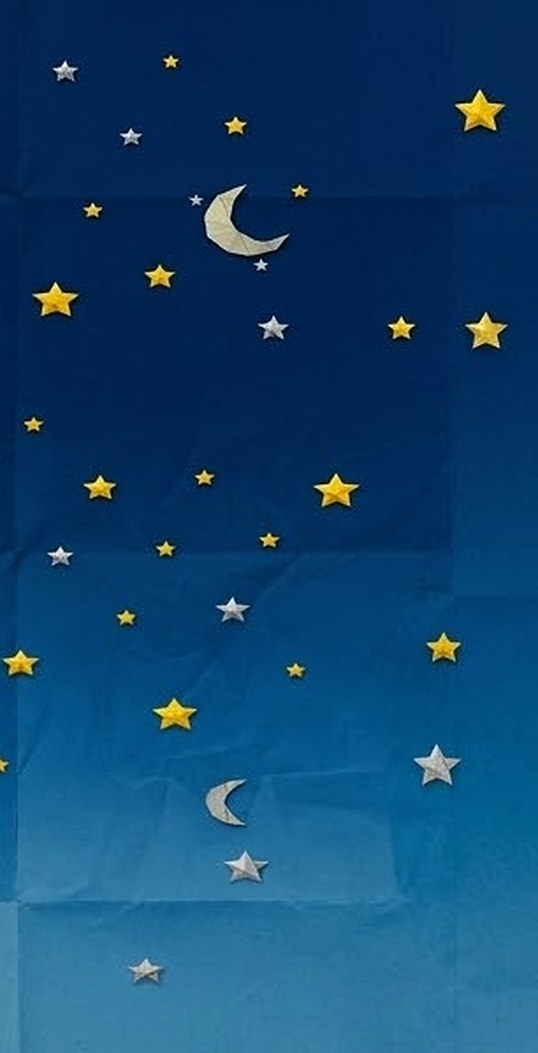
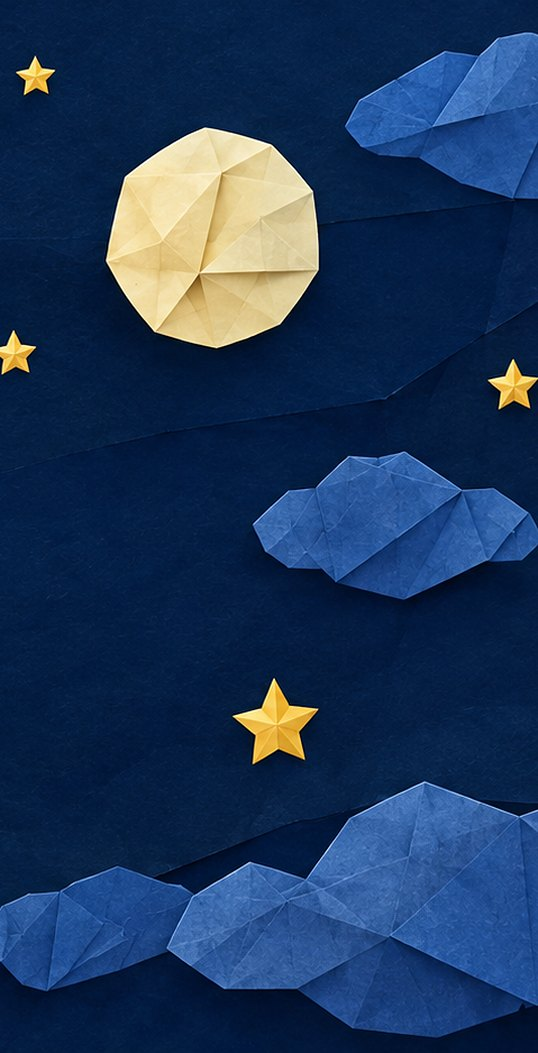
夜・星空・オーロラの空を、新しい折り紙の絵 3 枚にする
作り直してもらった絵 (夜=満月と雲 / 星空=三日月と星 / オーロラ=氷山と湖) を、空と同じ縦横比 (430:842) で切り出して 538x1053 にした (床は含めない)。
前に入れた夜の絵 (小さい絵を切っていた) は置き換える。
3 枚を下から順に重ね、濃さは palette().skyArt = [夜, 星空, オーロラ] (20→30 / 30→40 / 40→50 点で 0→1)。下の絵は 1 のまま残すので、重ねている間にグラデーションが透けない。canvas の星・月・オーロラは絵が濃いほど引っ込める。1 枚でも読めなければどれも出さない。
見張り: 3 枚の大きさ・夜と星空に金の星・オーロラだけ緑が多い・3 枚とも暗い・点数ごとの濃さ・読めないときは出さない (core 側にも濃さの単調さの試験)。

Claude-Session: https://claude.ai/code/session_01VNifuaMGz9kWVnVmfma8o2

diff --git a/browser-test.js b/browser-test.js
@@ -835,45 +835,55 @@ async function run() {
       await mp.close();
     }
 
-    // ------------------------------------------------ 夜の空の絵
-    section('夜の空の絵');
+    // ------------------------------------------------ 夜・星空・オーロラの空の絵
+    section('夜・星空・オーロラの空の絵');
     {
       const nc = await browser.newContext(PHONE);
       const np = await nc.newPage();
       await np.goto(URL);
       await np.waitForFunction(() => window.__app);
       await np.locator('#btnAdventure').tap();
-      const setScore = (sc) => np.evaluate((sc) => { const g = window.__app.game(); g.phase = 'play'; g.score = sc; g.pipes.length = 0; g.items.length = 0; window.__app.render(); return +getComputedStyle(document.getElementById('skyNight')).opacity; }, sc);
-      const art = await np.evaluate(async () => {
-        const im = document.getElementById('skyNight'); await im.decode();
-        const c = document.createElement('canvas'); c.width = im.naturalWidth; c.height = im.naturalHeight;
-        const g = c.getContext('2d'); g.drawImage(im, 0, 0);
-        const d = g.getImageData(0, 0, c.width, c.height).data;
-        let gold = 0, floor = 0;
-        for (let y = 0; y < c.height; y++) for (let x = 0; x < c.width; x++) {
-          const i = (y * c.width + x) * 4, r = d[i], gg = d[i + 1], b = d[i + 2];
-          if (r > 200 && gg > 150 && b < 110) gold++;
-          if (y > c.height - 30 && gg > b + 30) floor++;   // 床の緑が混ざっていないか (下の端)
+      const ops = (sc) => np.evaluate((sc) => { const g = window.__app.game(); g.phase = 'play'; g.score = sc; g.pipes.length = 0; g.items.length = 0; window.__app.render();
+        return ['skyNight', 'skyStarry', 'skyAurora'].map((id) => +getComputedStyle(document.getElementById(id)).opacity); }, sc);
+      const arts = await np.evaluate(async () => {
+        const out = {};
+        for (const id of ['skyNight', 'skyStarry', 'skyAurora']) {
+          const im = document.getElementById(id); await im.decode();
+          const c = document.createElement('canvas'); c.width = im.naturalWidth; c.height = im.naturalHeight;
+          const g = c.getContext('2d'); g.drawImage(im, 0, 0);
+          const d = g.getImageData(0, 0, c.width, c.height).data;
+          let gold = 0, green = 0, lum = 0;
+          for (let i = 0; i < d.length; i += 4) {
+            if (d[i] > 200 && d[i + 1] > 150 && d[i + 2] < 120) gold++;
+            if (d[i + 1] > 140 && d[i + 1] > d[i] + 40 && d[i + 1] > d[i + 2] - 20) green++;   // オーロラの緑
+            lum += (d[i] + d[i + 1] + d[i + 2]) / 3;
+          }
+          out[id] = { w: c.width, h: c.height, gold, green, lum: lum / (d.length / 4) };
         }
-        return { w: c.width, h: c.height, gold, floor };
+        return out;
       });
-      ok(art.w === 538 && art.h === 1053, `夜の絵は 538x1053 (${art.w}x${art.h})`);
-      ok(art.gold > 400, `夜の絵に金の星が写っている (${art.gold} 画素)`);
-      ok(art.floor === 0, `夜の絵の下の端に床の緑が混ざらない (${art.floor} 画素)`);
-      const o20 = await setScore(20), o25 = await setScore(25), o30 = await setScore(30), o35 = await setScore(35), o40 = await setScore(40);
-      ok(o20 === 0 && o40 === 0, `夜の絵は 20 点・40 点では出ない (${o20} / ${o40})`);
-      ok(o30 === 1 && o25 > 0.3 && o25 < 0.7 && o35 > 0.3 && o35 < 0.7, `夜 (30 点) でちょうど 1、前後の 25・35 点は途中 (${o25} / ${o30} / ${o35})`);
+      for (const id of ['skyNight', 'skyStarry', 'skyAurora']) ok(arts[id].w === 538 && arts[id].h === 1053, `${id} は 538x1053 (${arts[id].w}x${arts[id].h})`);
+      ok(arts.skyNight.gold > 300 && arts.skyStarry.gold > 300, `夜と星空の絵に金の星が写っている (${arts.skyNight.gold} / ${arts.skyStarry.gold} 画素)`);
+      ok(arts.skyAurora.green > 4000 && arts.skyNight.green < 100 && arts.skyStarry.green < 100, `オーロラの絵だけ緑が多い (${arts.skyAurora.green} / ${arts.skyNight.green} / ${arts.skyStarry.green} 画素)`);
+      ok(Object.values(arts).every((a) => a.lum < 110), `3 枚とも夜の暗さ (明るさ ${Object.values(arts).map((a) => a.lum.toFixed(0)).join(' / ')})`);
+      const o = {}; for (const sc of [0, 20, 25, 30, 35, 40, 45, 50, 70]) o[sc] = await ops(sc);
+      ok(o[0].every((v) => v === 0) && o[20].every((v) => v === 0), '20 点までは絵を出さない');
+      ok(o[30][0] === 1 && o[30][1] === 0 && o[30][2] === 0, `30 点は夜の絵だけ (${o[30]})`);
+      ok(o[40][0] === 1 && o[40][1] === 1 && o[40][2] === 0, `40 点は星空の絵まで (${o[40]})`);
+      ok(o[50].every((v) => v === 1) && o[70].every((v) => v === 1), `50 点からオーロラの絵まで全部 (${o[50]})`);
+      ok(o[25][0] > 0.3 && o[25][0] < 0.7 && o[35][1] > 0.3 && o[35][1] < 0.7 && o[45][2] > 0.3 && o[45][2] < 0.7, `前後の 5 点は途中 (${o[25][0]} / ${o[35][1]} / ${o[45][2]})`);
       await nc.close();
 
-      // 絵が読めなければ、夜も元のグラデーション + 星と月のまま (絵を出さない)
+      // 1 枚でも絵が読めなければ、元のグラデーション + 星と月 (canvas) のまま
       const bc = await browser.newContext(PHONE);
-      await bc.route('**/sky-night.jpg', (r) => r.abort());
+      await bc.route('**/sky-starry.jpg', (r) => r.abort());
       const bp = await bc.newPage();
       await bp.goto(URL);
       await bp.waitForFunction(() => window.__app);
       await bp.locator('#btnAdventure').tap();
-      const ob = await bp.evaluate(() => { const g = window.__app.game(); g.phase = 'play'; g.score = 30; g.pipes.length = 0; g.items.length = 0; window.__app.render(); return +getComputedStyle(document.getElementById('skyNight')).opacity; });
-      ok(ob === 0, `夜の絵が読めないときは出さない (${ob})`);
+      const ob = await bp.evaluate(() => { const g = window.__app.game(); g.phase = 'play'; g.score = 45; g.pipes.length = 0; g.items.length = 0; window.__app.render();
+        return ['skyNight', 'skyStarry', 'skyAurora'].map((id) => +getComputedStyle(document.getElementById(id)).opacity); });
+      ok(ob.every((v) => v === 0), `絵が 1 枚でも読めないときは、どれも出さない (${ob})`);
       await bc.close();
     }
 

diff --git a/app.js b/app.js
@@ -24,7 +24,7 @@
     bestAdventure: document.getElementById('bestAdventure'),
     mute: document.getElementById('btnMute'),
     sky: document.getElementById('sky'),
-    skyNight: document.getElementById('skyNight'),
+    skyArt: ['skyNight', 'skyStarry', 'skyAurora'].map(function (id) { return document.getElementById(id); }),
     skyPaper: document.getElementById('skyPaper')
   };
 
@@ -401,18 +401,18 @@
 
   // 空の色 (CSS のグラデーション)。変わったときだけ書き換える。単色でも linear-gradient で指定し、種類を変えない
   let skyKey = '';
-  // 夜の絵が読めたかどうか。読めなければ、夜も元のグラデーション + 星と月 (canvas) のまま
-  function nightReady() { return !!(els.skyNight && els.skyNight.complete && els.skyNight.naturalWidth > 0); }
-  function nightWeight(pal) { return nightReady() ? pal.night : 0; }
+  // 夜・星空・オーロラの絵が全部読めたかどうか。1 枚でも読めなければ出さず、元のグラデーション + 星と月とオーロラ (canvas) のまま
+  function skyArtReady() { return els.skyArt.every(function (im) { return im && im.complete && im.naturalWidth > 0; }); }
+  function skyArtWeights(pal) { return skyArtReady() ? pal.skyArt : [0, 0, 0]; }
   function applySky(pal) {
-    const night = nightWeight(pal).toFixed(2);
-    const key = rgb(pal.sky[0]) + rgb(pal.sky[1]) + night;
+    const w = skyArtWeights(pal).map(function (v) { return v.toFixed(2); });
+    const key = rgb(pal.sky[0]) + rgb(pal.sky[1]) + w.join();
     if (key === skyKey) return;
     skyKey = key;
     els.sky.style.background = 'linear-gradient(' + rgb(pal.sky[0]) + ',' + rgb(pal.sky[1]) + ')';
-    // 夜の絵には折り目が写っているので、同じ紙の折り目 (skyPaper) は夜に近づくほど薄める。星と月も絵にあるので canvas のは引っ込める
-    els.skyNight.style.opacity = night;
-    els.skyPaper.style.opacity = (1 - night * 0.8).toFixed(2);
+    for (let i = 0; i < 3; i++) els.skyArt[i].style.opacity = w[i];
+    // 絵には紙の折り目が写っているので、同じ折り目 (skyPaper) は絵が濃いほど薄める
+    els.skyPaper.style.opacity = (1 - w[0] * 0.8).toFixed(2);
   }
 
   // 雲 (折り紙)。絵が読めなかった物は、これまでの描き方のまま
@@ -426,9 +426,9 @@
   }
 
   function drawBackground(pal) {
-    const own = Math.pow(1 - nightWeight(pal), 3);   // 夜の絵が出ている分だけ、絵の中の星と月に任せる (3 乗で、重なる間は早めに引っ込める)
+    const own = Math.pow(1 - skyArtWeights(pal)[0], 3);   // 絵が出ている分だけ、絵の中の星・月・オーロラに任せる (3 乗で、重なる間は早めに引っ込める)
     if (pal.stars * own > 0.01) drawStars(pal.stars * own);
-    if (pal.aurora > 0.01) drawAurora(pal.aurora);
+    if (pal.aurora * own > 0.01) drawAurora(pal.aurora * own);
     if (pal.moon * own > 0.01) drawMoon(pal.moon * own);
     const span = W + 160;
     const drift = (game.frames * 0.3) % span;

diff --git a/core.test.js b/core.test.js
@@ -186,10 +186,18 @@ test('柱の沈め具合: どのステージでも 0〜1。昼より夜のほう
   }
 });
 
-test('夜の絵の濃さは、30 点 (夜) でちょうど 1、20 点以下と 40 点以上で 0、間はなめらか', () => {
-  assert.strictEqual(Core.palette(30).night, 1);
-  for (const sc of [0, 10, 20, 40, 41, 60]) assert.strictEqual(Core.palette(sc).night, 0, `${sc} 点`);
-  let prev = 0;
-  for (let sc = 20; sc <= 30; sc++) { const n = Core.palette(sc).night; assert.ok(n >= prev, `${sc} 点で増える`); prev = n; }
-  for (let sc = 30; sc <= 40; sc++) { const n = Core.palette(sc).night; assert.ok(n <= prev, `${sc} 点で減る`); prev = n; }
+test('夜・星空・オーロラの絵の濃さ: 夜は 20→30 点、星空は 30→40 点、オーロラは 40→50 点で 0 → 1、重ねているあいだ下の絵は 1 のまま', () => {
+  assert.deepStrictEqual(Core.palette(0).skyArt, [0, 0, 0]);
+  assert.deepStrictEqual(Core.palette(20).skyArt, [0, 0, 0]);
+  assert.deepStrictEqual(Core.palette(30).skyArt, [1, 0, 0]);
+  assert.deepStrictEqual(Core.palette(40).skyArt, [1, 1, 0]);
+  assert.deepStrictEqual(Core.palette(50).skyArt, [1, 1, 1]);
+  assert.deepStrictEqual(Core.palette(80).skyArt, [1, 1, 1]);
+  for (let sc = 0; sc < 60; sc++) {
+    const a = Core.palette(sc).skyArt, b = Core.palette(sc + 1).skyArt;
+    for (let i = 0; i < 3; i++) assert.ok(b[i] >= a[i], `${sc} 点で絵 ${i} が減らない`);
+    assert.ok(a[0] >= a[1] && a[1] >= a[2], `${sc} 点: 下の絵ほど濃い (透けない)`);
+  }
+  assert.strictEqual(Core.palette(35).skyArt[0], 1);
+  assert.ok(Math.abs(Core.palette(35).skyArt[1] - 0.5) < 1e-9);
 });

diff --git a/core.js b/core.js
@@ -87,8 +87,10 @@
       stars: lerp(a.stars, b.stars, t),
       moon: lerp(a.moon, b.moon, t),
       aurora: lerp(a.aurora, b.aurora, t),
-      // 夜の紙の絵 (assets/sky-night.jpg) をどれだけ出すか。夜 (30 点) にちょうど 1、前後 10 点で 0 へ
-      night: Math.max(0, 1 - Math.abs(score - NIGHT_AT) / STAGE_LEN)
+      // 夜・星空・オーロラの紙の絵 (assets/sky-night / starry / aurora.jpg) をどれだけ出すか。
+      // 下から重ねて、夜 (30 点) へ 20→30 点で入り、星空 (40 点) を 30→40、オーロラ (50 点) を 40→50 で上に重ねる
+      // (下の絵は 1 のまま残すので、重ねている間に下のグラデーションが透けない)
+      skyArt: [0, 1, 2].map(function (i) { return Math.max(0, Math.min(1, (score - (NIGHT_AT + (i - 1) * STAGE_LEN)) / STAGE_LEN)); })
     };
   }
 

diff --git a/index.html b/index.html
@@ -19,7 +19,9 @@
 <div id="app">
   <!-- 空: キャンバスの下の背景。色は CSS のグラデーション (ステージごとに app.js が替える)、紙の折り目と粒は絵を重ね合わせで載せる。動かないので毎コマ塗らない -->
   <div id="sky"></div>
-  <img id="skyNight" src="./assets/sky-night.jpg" alt="">
+  <img id="skyNight" class="sky-art" src="./assets/sky-night.jpg" alt="">
+  <img id="skyStarry" class="sky-art" src="./assets/sky-starry.jpg" alt="">
+  <img id="skyAurora" class="sky-art" src="./assets/sky-aurora.jpg" alt="">
   <img id="skyPaper" src="./assets/sky-paper.jpg" alt="">
 
   <canvas id="game" width="430" height="932"></canvas>

diff --git a/styles.css b/styles.css
@@ -47,8 +47,8 @@ body {
   height: 842px;             /* 床の上まで (932 - 90) */
   background: linear-gradient(rgb(112, 197, 206), rgb(188, 230, 236));
 }
-/* 夜の空の絵 (星と月つきの折り紙)。色のグラデーションの上に、夜に近づくほど濃く重ねる (opacity は app.js) */
-#skyNight {
+/* 夜・星空・オーロラの空の絵 (折り紙)。色のグラデーションの上に、夜 → 星空 → オーロラの順に重ねる (opacity は app.js) */
+.sky-art {
   position: absolute;
   left: 0;
   top: 0;
